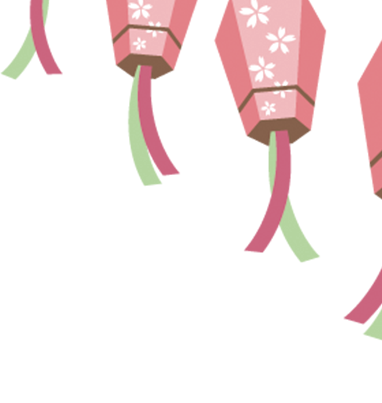
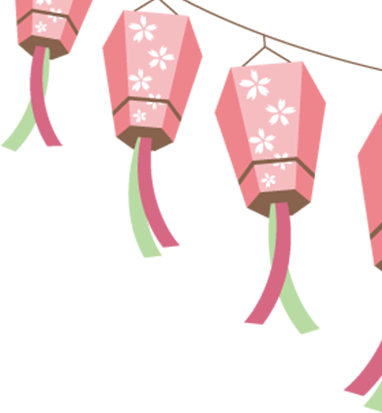
css

diff --git a/css/style.css b/css/style.css
@@ -4,13 +4,117 @@
     box-sizing: border-box;
 }
 
-#outline {
-    background-color: rgb(7, 7, 7);
-    height: 4350px;
-    max-width: 990px;
-    margin: 0 auto;
+body {
+    background-color: black;
 }
 
-.judul {
+.outline {
+    background-color: #d9effc;
+    height: 4350px;
+    max-width: 990px;
+    width:100%;
+    margin: 0 auto;
     position: relative;
 }
+
+img, p, .button {
+position: absolute;
+}
+
+.bgradient {
+    bottom: 0px;
+}
+
+.banner {
+    z-index: 10;
+}
+
+.judul{
+    left: 140px;
+    top: 78px;
+    z-index: 27;
+}
+
+.lantern {
+    right:0px;
+    top: -60px;
+    z-index: 26;
+}
+
+.branch {
+    left: 0px;
+    top: 0px;
+    z-index: 26;
+}
+
+.button-background {
+    top: 635px;
+    z-index: 8;
+}
+
+.button-title {
+    left: 40px;
+    top: 1190px;
+    z-index: 20;
+}
+
+
+.button p {
+    border: 5px solid rgb(255, 255, 255);
+    border-radius: 50px;
+    background-image: -moz-linear-gradient(90deg, rgba(247, 230, 231, 0.99608) 0%, rgb(242, 178, 191) 100%);
+    background-image: -webkit-linear-gradient(90deg, rgba(247, 230, 231, 0.99608) 0%, rgb(242, 178, 191) 100%);
+    background-image: -ms-linear-gradient(90deg, rgba(247, 230, 231, 0.99608) 0%, rgb(242, 178, 191) 100%);
+    box-shadow: 0px 25px 0px 0px rgba(230, 44, 118, 0.49);
+    font-size: 50px;
+    width: 500px;
+    height: 125px;
+    display: flex;
+    align-items: center;
+    justify-content: center;
+    font-family: "01FLOPDESIGN";
+    color: rgb(230, 32, 115);
+    line-height: 1.2;
+    -moz-transform: matrix(0.53550384508597, 0, 0, 0.53550384508597, 0, 0);
+    -webkit-transform: matrix(0.53550384508597, 0, 0, 0.53550384508597, 0, 0);
+    -ms-transform: matrix(0.53550384508597, 0, 0, 0.53550384508597, 0, 0);
+    z-index: 15;
+    position: absolute;
+}
+
+.buttonimg1, .buttonimg2, .buttonimg3 {
+    top: 1300px;
+    position: absolute;
+}
+
+.buttonimg1 {
+    left: -80px;
+}
+
+.buttonimg2 {
+    left: 255px;
+}
+
+.buttonimg3 {
+    left: 570px;   
+}
+
+.arrow1, .arrow2, .arrow3 {
+    top: 1434px;
+    width: 59px;
+    height: 42px;
+    z-index: 10;
+}
+
+.arrow1 {
+    left: 142px;
+}
+
+.arrow2 {
+    left: 459px;
+}
+
+.arrow3 {
+    left: 781px;
+}
+

diff --git a/index.html b/index.html
@@ -6,24 +6,45 @@
     <title>Document</title>
     <link rel="stylesheet" href="css/style.css">
 </head>
-<body id="outline">
-    <div class="header">
-        <img src="img/top banner.png">
-        <img src="img/brach.png">
-        <img src="img/lantern.png">
-        <img class="judul" src="img/judul.png">
-    </div>
-    <div class="button">
-        <img src="img/flower background.png">
-    </div>
-    <div class="menu">
-
-    </div>
-    <div class="coupon">
-
-    </div>
-    <div class="footer">
+<body>
+    <div class="outline">
+        <img class="bgradient" src="img/background-gradient 1.png">
+        <div class="header">
+            <img class="banner" src="img/top banner.png">
+            <img class="branch" src="img/brach.png">
+            <img class="lantern" src="img/lantern.png">
+            <img class="judul" src="img/judul.png">
+        </div>
+        <div class="button">
+            <img class="button-background" src="img/flower background.png">
+            <img class="button-title" src="img/buttonhead.png">
+            <div class="button1">
+                <a href="#menu1" class="buttonimg1">
+                    <p>魚介カレー</p>
+                </a>
+                <img class="arrow1" src="img/arrow.png">
+            </div>
+            <div class="button2">
+                <a href="#menu2" class="buttonimg2">
+                    <p>牛タンラーメン</p>
+                </a>
+                <img class="arrow2" src="img/arrow.png">
+            </div>
+            <div class="button3">
+                <a href="#menu3" class="buttonimg3">
+                    <p>ひつまぶし</p>
+                </a>
+                <img class="arrow3" src="img/arrow.png">
+            </div>
+        </div>
+        <div class="menu">
+         <img class="flowerstripes" src="img/flowerstripes.png">
+        </div>
+        <div class="coupon">
         
+        </div>
+        <div class="footer">
+        </div>
     </div>
 </body>
 </html>
